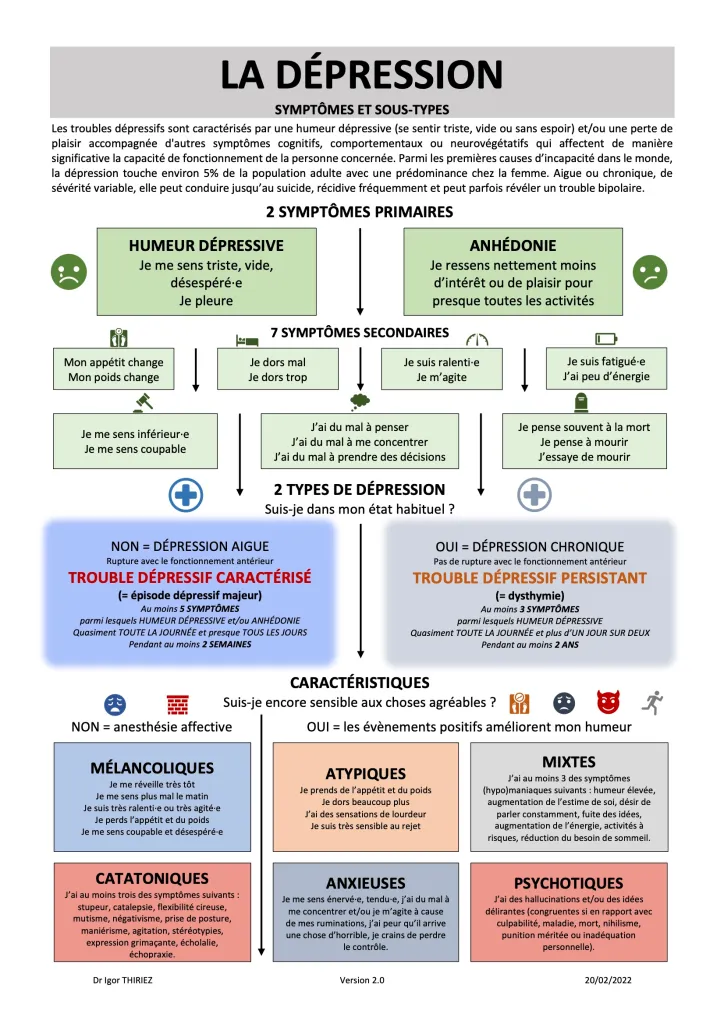
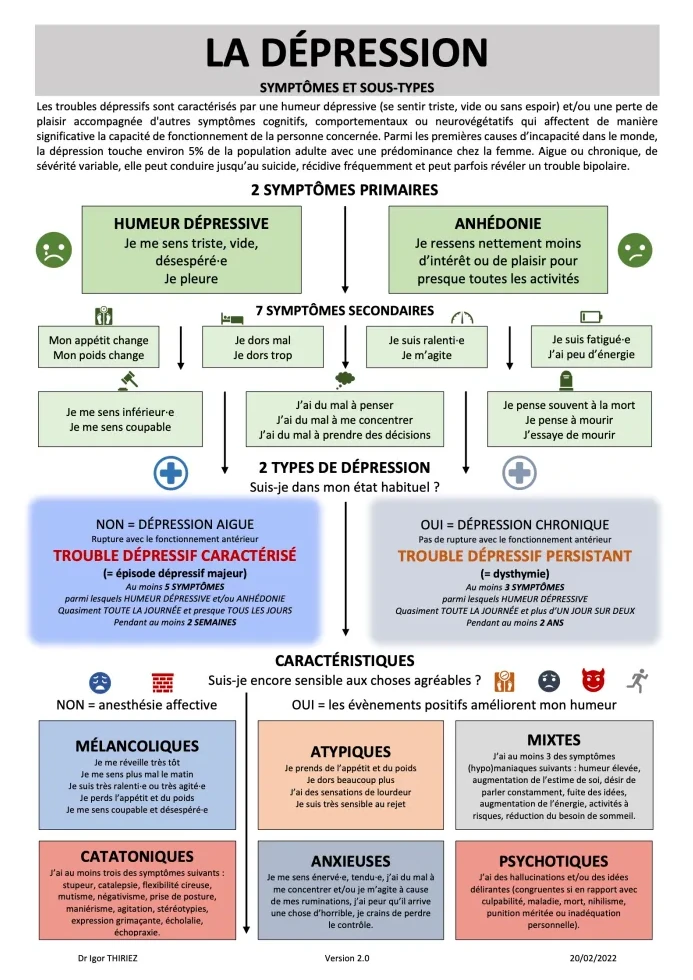
Reduce border around igorthiriez.com miniatures

diff --git a/web/demheter.fr/pages/bipolarite.md b/web/demheter.fr/pages/bipolarite.md
@@ -56,5 +56,5 @@ Devant un épisode dépressif, plusieurs arguments peuvent vous faire évoquer u
 ## Fiche explicative
 
 <div class="shelf">
-    <a href="https://igorthiriez.com/portfolio/le-trouble-bipolaire/" target="_blank"><img src="{{ ASSET static/fiches/professionnels/bipolarite.webp }}" alt="Le trouble bipolaire" height="512" /></a>
+    <a href="https://igorthiriez.com/portfolio/le-trouble-bipolaire/" target="_blank"><img src="{{ ASSET static/fiches/professionnels/bipolarite.webp }}" alt="Le trouble bipolaire" height="490" /></a>
 </div>

diff --git a/web/demheter.fr/pages/depression.md b/web/demheter.fr/pages/depression.md
@@ -66,5 +66,5 @@ Ce bilan est établi d'après les [recommandations HAS 2017](https://www.has-san
 ## Fiche explicative
 
 <div class="shelf">
-    <a href="https://igorthiriez.com/portfolio/la-depression-symptomes-et-sous-types/" target="_blank"><img src="{{ ASSET static/fiches/professionnels/depression.webp }}" alt="La dépression, symptômes et sous-types" height="512" /></a>
+    <a href="https://igorthiriez.com/portfolio/la-depression-symptomes-et-sous-types/" target="_blank"><img src="{{ ASSET static/fiches/professionnels/depression.webp }}" alt="La dépression, symptômes et sous-types" height="490" /></a>
 </div>